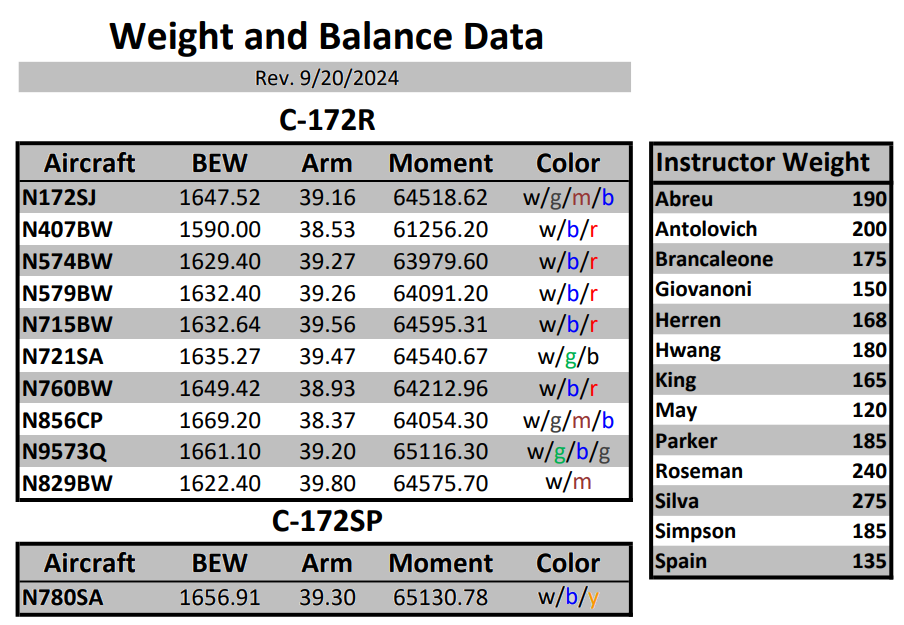
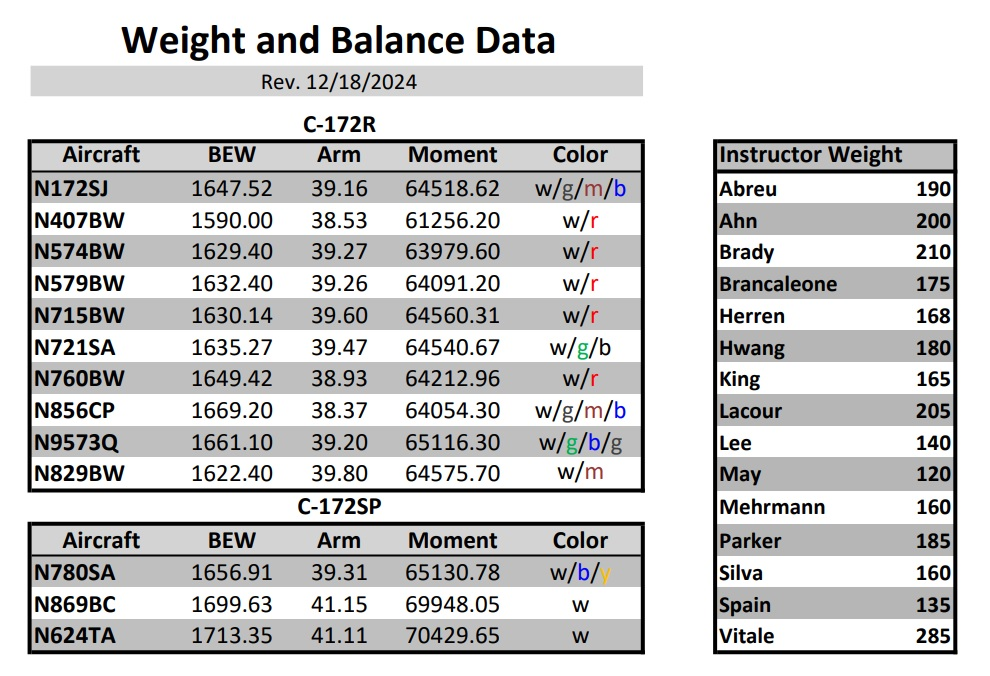
added s model w&b

diff --git a/templates/data.html b/templates/data.html
@@ -28,7 +28,7 @@
     <!-- Weather Section -->
     <div class="container">
       <div class="weather-section">
-        <h3>METAR for {{ et }} ET</h3>
+        <h3>METAR for {{ eastern_time }} ET</h3>
         <ul>
             <li><span>METAR:</span> {{ met }}</li>
             <li><span>Pressure Altitude:</span> {{ pressure_altitude }}</li>

diff --git a/webserver.py b/webserver.py
@@ -10,7 +10,7 @@ from io import BytesIO
 
 from flask import Flask, render_template, request, redirect, send_from_directory, abort, got_request_exception, session
 from flask_apscheduler import APScheduler
-from PIL import Image, ImageDraw
+from PIL import Image, ImageDraw, ImageFont
 from logging.handlers import RotatingFileHandler
 import user_agents
 import pytz
@@ -135,7 +135,6 @@ def metar(airport: str):
     return eastern_time, data["raw"], data["pressure_altitude"], data["density_altitude"], flight_rules, data
 
 def user_log(data, request, airport):
-    print(airport)
     ip = request.headers.get('X-Forwarded-For', request.remote_addr)
     log_data = {
         "timestamp": str(datetime.datetime.now()),
@@ -307,17 +306,59 @@ def process_form_data(data):
     return bew, moment
 
 def generate_balance_chart(told_card_instance):
-    xlinepos = round(26.9 * (told_card_instance.ramp_weight["arm"] - 34) + 102)
-    ylinepos = round(652 - ((told_card_instance.ramp_weight["weight"] - 1500) / 1.86))
-    
-    chart = Image.open(f"{config.CWD}/static/wb.png")
-    draw = ImageDraw.Draw(chart) 
-    draw.line((xlinepos, 116, xlinepos, 651), fill=(255, 0, 0), width=3)
-    draw.line((101, ylinepos, 505, ylinepos), fill=(255, 0, 0), width=3)
+    arm = told_card_instance.ramp_weight["arm"]
+    weight = told_card_instance.ramp_weight["weight"]
 
-    chart_buffer = BytesIO()
-    chart.save(chart_buffer, format="PNG")
-    return base64.b64encode(chart_buffer.getvalue()).decode()
+    r_model_path = f"{config.CWD}/static/wb.png"
+    r_x_origin = 34
+    r_x_scale = 26.9
+    r_x_offset = 102
+    r_y_origin = 1500
+    r_y_scale = 1.86  # division-based scale (not multiplication)
+    r_y_base = 652
+
+    r_xlinepos = round(r_x_scale * (arm - r_x_origin) + r_x_offset)
+    r_ylinepos = round(r_y_base - ((weight - r_y_origin) / r_y_scale))
+    r_ylinepos = max(116, min(651, r_ylinepos))
+
+    r_image = Image.open(r_model_path).convert("RGB")
+    r_draw = ImageDraw.Draw(r_image)
+    r_draw.line((r_xlinepos, 116, r_xlinepos, 651), fill=(255, 0, 0), width=3)
+    r_draw.line((101, r_ylinepos, 505, r_ylinepos), fill=(255, 0, 0), width=3)
+
+    s_model_path = f"{config.CWD}/static/wb1.png"
+    s_x_origin = 34
+    s_x_offset = 73
+    s_x_scale = (499 - 73) / (48 - 34)
+    s_y_origin = 1500
+    s_y_base = 751
+    s_y_scale = (751 - 78) / (2600 - 1500)
+
+    s_xlinepos = round(s_x_scale * (arm - s_x_origin) + s_x_offset)
+    s_ylinepos = round(s_y_base - ((weight - s_y_origin) * s_y_scale))
+
+    s_image = Image.open(s_model_path).convert("RGB")
+    s_draw = ImageDraw.Draw(s_image)
+    s_draw.line((s_xlinepos, 81, s_xlinepos, 749), fill=(255, 0, 0), width=3)
+    s_draw.line((72, s_ylinepos + 3, 529, s_ylinepos + 3), fill=(255, 0, 0), width=3)
+
+    combined_width = r_image.width + s_image.width
+    combined_height = max(r_image.height, s_image.height)
+    combined_image = Image.new("RGB", (combined_width, combined_height), (255, 255, 255))
+    combined_image.paste(r_image, (0, 0))
+    combined_image.paste(s_image, (r_image.width, 0))
+
+    draw_combined = ImageDraw.Draw(combined_image)
+    try:
+        font = ImageFont.truetype("arial.ttf", 20)
+    except:
+        font = None
+    draw_combined.text((10, 10), "Cessna 172R", fill=(0, 0, 0), font=font)
+    draw_combined.text((r_image.width + 10, 10), "Cessna 172SP", fill=(0, 0, 0), font=font)
+
+    buffer = BytesIO()
+    combined_image.save(buffer, format="PNG")
+    return base64.b64encode(buffer.getvalue()).decode()
 
 @app.route('/data', methods=['POST', 'GET'])
 def data():
